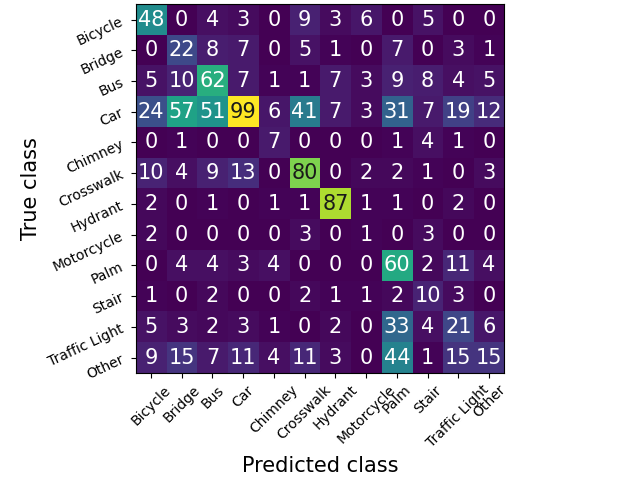
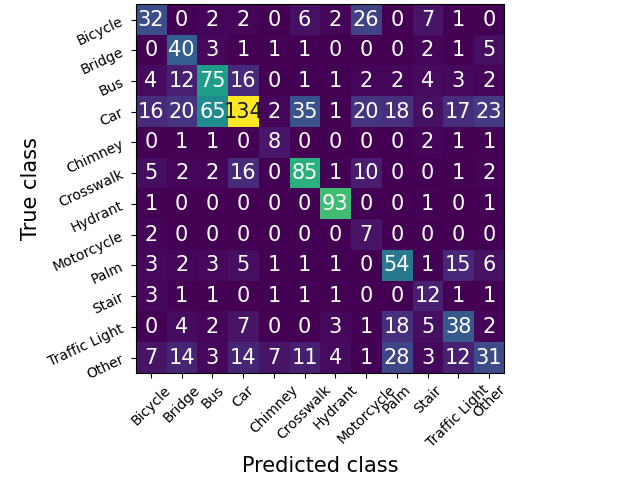
Updated for new results

diff --git a/reports/recaptcha_success.py b/reports/recaptcha_success.py
@@ -3,18 +3,18 @@ import numpy as np
 
 
 data = {
-    'Bicycle':       [48,  0,  4,  3,  0,  9,  3,  6,  0,  5,  0,  0],
-    'Bridge':        [0, 22,  8,  7,  0,  5,  1,  0,  7,  0,  3,  1],
-    'Bus':           [5, 10, 62,  7,  1,  1,  7,  3,  9,  8,  4,  5],
-    'Car':           [24, 57, 51, 99,  6, 41,  7,  3, 31,  7, 19, 12],
-    'Chimney':       [0,  1,  0,  0,  7,  0,  0,  1,  4,  1,  0,  0],
-    'Crosswalk':     [10,  4,  9, 13,  0, 80,  0,  2,  2,  1,  0,  3],
-    'Hydrant':       [2,  0,  1,  0,  1,  1, 87,  1,  1,  0,  2,  0],
-    'Motorcycle':    [2,  0,  0,  0,  0,  3,  0,  1,  0,  3,  0,  0],
-    'Palm':          [0,  4,  4,  3,  4,  0,  0,  0, 60,  2, 11,  4],
-    'Stair':         [1,  0,  2,  0,  0,  2,  1,  1,  2, 10,  3,  0],
-    'Traffic_Light': [5,  3,  2,  3,  1,  0,  2,  0, 33,  4, 21,  6],
-    'Other':         [9, 15,  7, 11,  4, 11,  3,  0, 44,  1, 15, 15]
+    'Bicycle':       [32,  0,  2,  2,  0,  6,  2, 26,  0,  7,  1,  0],
+    'Bridge':        [0,  40,  3,  1,  1,  0,  0,  2,  1,  2,  1,  5],
+    'Bus':           [4,  12, 75, 16,  0,  1,  1,  2,  2,  4,  3,  2],
+    'Car':           [16, 20, 65, 134,  2, 35,  1, 20, 18,  6, 17, 23],
+    'Chimney':       [0,  1,  1,  0,  8,  0,  0,  0,  0,  2,  1,  1],
+    'Crosswalk':     [5,  2,  2, 16,  0, 85,  1, 10,  0,  0,  1,  2],
+    'Hydrant':       [1,  0,  0,  0,  0,  0, 93,  0,  0,  1,  0,  1],
+    'Motorcycle':    [2,  0,  0,  0,  0,  0,  0,  7,  0,  0,  0,  0],
+    'Palm':          [3,  2,  3,  5,  1,  1,  1,  0, 54,  1, 15,  6],
+    'Stair':         [3,  1,  1,  0,  1,  1,  1,  0, 0,  12,  1,  1],
+    'Traffic_Light': [0,  4,  2,  7,  0,  0,  3,  1, 18,  5, 38,  2],
+    'Other':         [7, 14,  3, 14,  7, 11,  4,  1, 28,  3, 12, 31]
 }
 conf_mat = pd.DataFrame(data, index=list(data.keys()))
 
@@ -86,8 +86,8 @@ if __name__ == "__main__":
 
     # True Positive rate and True Negative rate (derived from
     # the tpr_tnr.py script)
-    tpr_est = 0.432
-    tnr_est = 0.948
+    tpr_est = 0.514
+    tnr_est = 0.956
 
     # Suppose we have 0 targets: 10%   1 target: 20%   2 targets: 30%
     # 3 targets: 25%   4 targets: 10%   5+ targets: 5%

diff --git a/reports/tpr_tnr.py b/reports/tpr_tnr.py
@@ -1,18 +1,18 @@
 import numpy as np
 
 CM = np.array([
- [48,  0,  4,  3,  0,  9,  3,  6,  0,  5,  0,  0],
- [0, 22,  8,  7,  0,  5,  1,  0,  7,  0,  3,  1],
- [5, 10, 62,  7,  1,  1,  7,  3,  9,  8,  4,  5],
- [24, 57, 51, 99,  6, 41,  7,  3, 31,  7, 19, 12],
- [0,  1,  0,  0,  7,  0,  0,  1,  4,  1,  0,  0],
- [10,  4,  9, 13,  0, 80,  0,  2,  2,  1,  0,  3],
- [2,  0,  1,  0,  1,  1, 87,  1,  1,  0,  2,  0],
- [2,  0,  0,  0,  3,  0,  1,  0,  3,  0,  0,  0],
- [0,  4,  4,  3,  4,  0,  0,  0, 60,  2, 11,  4],
- [1,  0,  2,  0,  0,  2,  1,  1,  2, 10,  3,  0],
- [5,  3,  2,  3,  1,  0,  2,  0, 33,  4, 21,  6],
- [9, 15,  7, 11,  4, 11,  3,  0, 44,  1, 15, 15]
+    [32,  0,  2,  2,  0,  6,  2, 26,  0,  7,  1,  0],
+    [0,  40,  3,  1,  1,  0,  0,  2,  1,  2,  1,  5],
+    [4,  12, 75, 16,  0,  1,  1,  2,  2,  4,  3,  2],
+    [16, 20, 65, 134,  2, 35,  1, 20, 18,  6, 17, 23],
+    [0,  1,  1,  0,  8,  0,  0,  0,  0,  2,  1,  1],
+    [5,  2,  2, 16,  0, 85,  1, 10,  0,  0,  1,  2],
+    [1,  0,  0,  0,  0,  0, 93,  0,  0,  1,  0,  1],
+    [2,  0,  0,  0,  0,  0,  0,  7,  0,  0,  0,  0],
+    [3,  2,  3,  5,  1,  1,  1,  0, 54,  1, 15,  6],
+    [3,  1,  1,  0,  1,  1,  1,  0, 0,  12,  1,  1],
+    [0,  4,  2,  7,  0,  0,  3,  1, 18,  5, 38,  2],
+    [7, 14,  3, 14,  7, 11,  4,  1, 28,  3, 12, 31]
 ])
 
 N = CM.sum()
@@ -25,5 +25,5 @@ TN = CM.shape[0]*N - (TP + FN + FP)
 TPR = TP / (TP + FN)
 TNR = TN / (TN + FP)
 
-print(f"Micro TPR = {TPR:.3f}")    # ~0.432
-print(f"Micro TNR = {TNR:.3f}")    # ~0.948
+print(f"Micro TPR = {TPR:.3f}")    # ~0.514
+print(f"Micro TNR = {TNR:.3f}")    # ~0.956

diff --git a/reports/evaluation.md b/reports/evaluation.md
@@ -6,25 +6,25 @@ The results are:
 
 | Number of targets (M) | Probability of solving the grid (P_solve) |
 |-----------------------|-------------------------------------------|
-|         0             |                  61.84%                   |
-|         1             |                  28.18%                   |
-|         2             |                  12.84%                   |
-|         3             |                  5.85%                    |
-|         4             |                  2.67%                    |
-|         5             |                  1.22%                    |
+|         0             |                  66.70%                   |
+|         1             |                  35.86%                   |
+|         2             |                  19.28%                   |
+|         3             |                  10.37%                   |
+|         4             |                  5.57%                    |
+|         5             |                  3.00%                    |
 
 
 These results were obtained by first getting the overall True Positive Rate and True Negative Rate of the model, from the tpr_tnr.py script, and then plugging them in the functions that computed these probabilities in the recaptcha_success.py script.
 
 **Interpretation:**
 
-M = 0: When there are no target images, the model has a 61.84% chance of correctly identifying this by selecting no images at all (not making any false positives).
+M = 0: When there are no target images, the model has a 66.70% chance of correctly identifying this by selecting no images at all (not making any false positives).
 
-M = 1: When there is exactly one target image, the model has a 28.18% chance of selecting the correct image while avoiding false positives.
+M = 1: When there is exactly one target image, the model has a 35.86% chance of selecting the correct image while avoiding false positives.
 
-M = 2-5: As the number of target images increases, the probability that the model correctly selects all targets (without selecting any incorrect images) decreases sharply. For instance, with 3 targets, the probability drops to just 5.85%.
+M = 2-5: As the number of target images increases, the probability that the model correctly selects all targets (without selecting any incorrect images) decreases sharply. For instance, with 3 targets, the probability drops to 10.37%.
 
-Overall, when considering the distribution of different target counts in typical reCAPTCHA grids, the expected solve rate is **17.46%**. This means that, on average, the model will successfully pass the reCAPTCHA test only about 1 in every 6 attempts.
+Overall, when considering the distribution of different target counts in typical reCAPTCHA grids, the expected solve rate is **22.925**. This means that, on average, the model will successfully pass the reCAPTCHA test 1 in every 4.36 attempts.
 
 **Key Takeaways:**
 
